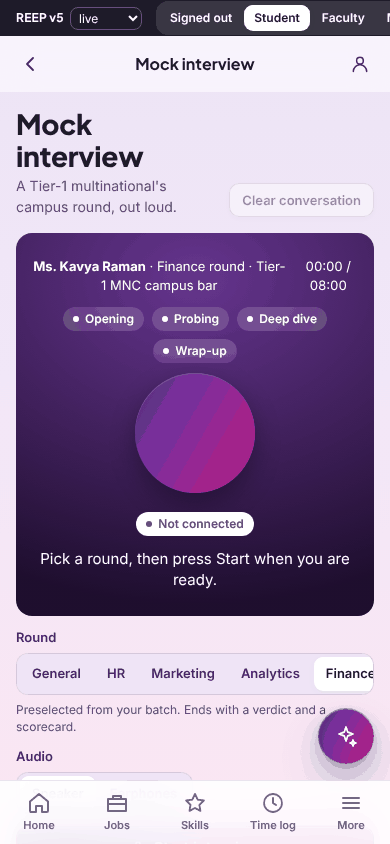
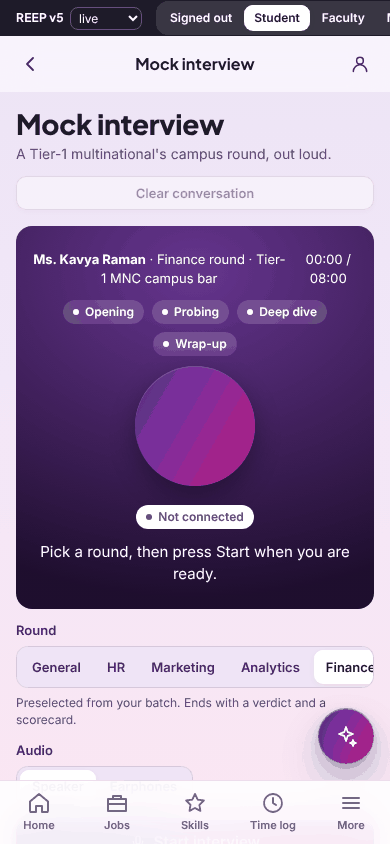
fix(prototype): phone headers keep their subtitle; the assistant button clears content
At 760px and below a page header's actions take their own row under the
title, keeping the primary action and one other in view and moving the
rest into a ⋯ sheet that presses the original controls. The assistant
button steps aside while scrolling down, content carries enough bottom
padding to clear it, and it never sits on a sticky action bar. Phone
screenshots re-shot; the inventory still carries 1054 of 1054.

Claude-Session: https://claude.ai/code/session_01JEuCjVWrUegeZps2YftbWx

diff --git a/prototype-v5/js/app.js b/prototype-v5/js/app.js
@@ -43,7 +43,14 @@ const App = {
     document.body.addEventListener('click', (ev) => this.onClick(ev));
     document.body.addEventListener('change', (ev) => this.onChange(ev));
     document.body.addEventListener('input', (ev) => this.onInput(ev));
-    window.addEventListener('scroll', () => { const tb = document.querySelector('.topbar'); if (tb) tb.classList.toggle('scrolled', scrollY > 24); }, { passive: true });
+    let lastY = 0;
+    window.addEventListener('scroll', () => {
+      const tb = document.querySelector('.topbar'); if (tb) tb.classList.toggle('scrolled', scrollY > 24);
+      // on a phone the assistant button steps aside while you scroll down, and comes back on the way up or at the end
+      const atEnd = innerHeight + scrollY >= document.documentElement.scrollHeight - 8;
+      if (Math.abs(scrollY - lastY) > 6) document.body.classList.toggle('fab-away', scrollY > lastY && scrollY > 80 && !atEnd);
+      lastY = scrollY;
+    }, { passive: true });
     this.backGesture();
     if (!location.hash) location.hash = '#/start';
     this.render(false);
@@ -86,11 +93,33 @@ const App = {
     const sticky = main && main.querySelector('.sticky-act');
     document.body.classList.toggle('has-sticky', !!sticky);
     if (sticky) requestAnimationFrame(() => document.body.style.setProperty('--sticky-h', `${sticky.offsetHeight}px`));
+    document.body.classList.remove('fab-away');
+    this.overflowActs(main);
     if (def.mount) def.mount(main, { id: parts[2], query, st: this.s(key) });
     if (push && !this.keepScroll) window.scrollTo(0, 0);
     this.keepScroll = false;
     this.cur = { key, def, id: parts[2] };
   },
+  /* Phone headers: keep the primary action and one other in view; the rest go in a ⋯ sheet
+     whose rows press the original controls, so every action keeps its own handler. */
+  overflowActs(main) {
+    if (!main || innerWidth > 760) return;
+    const acts = main.querySelector('.page-head .acts'); if (!acts) return;
+    const ctl = [...acts.children].filter((c) => c.matches('button, a.btn, label.btn'));
+    if (ctl.length <= 2) return;
+    const keep = [ctl.find((c) => c.classList.contains('primary')) || ctl[ctl.length - 1]];
+    keep.unshift(ctl.find((c) => !keep.includes(c)));
+    const extra = ctl.filter((c) => !keep.includes(c));
+    extra.forEach((c) => c.setAttribute('data-overflowed', ''));
+    const more = document.createElement('button');
+    more.type = 'button'; more.className = 'btn more-btn'; more.setAttribute('aria-label', 'More actions'); more.innerHTML = ic('more');
+    more.addEventListener('click', () => {
+      const el = Sheet.open({ title: 'More actions', body: `<div class="list">${extra.map((c, i) => `<button class="row" type="button" data-i="${i}"${c.disabled ? ' disabled style="opacity:.45"' : ''}><div class="body"><div class="ttl">${esc(c.textContent.trim() || c.getAttribute('aria-label') || '')}</div></div></button>`).join('')}</div>` });
+      el.querySelectorAll('[data-i]').forEach((b) => b.addEventListener('click', () => { const c = extra[+b.dataset.i]; Sheet.close(); setTimeout(() => (c.tagName === 'LABEL' ? c.querySelector('input')?.click() : c.click()), 330); }));
+    });
+    acts.insertBefore(more, keep[0]);
+  },
+
   rerender() { this.keepScroll = true; const y = scrollY; const f = document.activeElement; const sel = f && f.dataset && f.dataset.f ? `[data-f="${f.dataset.f}"]` : null; this.render(false); window.scrollTo(0, y); if (sel) { const n = document.querySelector(sel); if (n) { n.focus(); if (n.setSelectionRange && /^(text|search|email|tel|url|password|textarea)$/.test(n.type)) n.setSelectionRange(n.value.length, n.value.length); } } },
 
   /* Every screen's loading and error states, in one shape: skeleton rows, then a

diff --git a/prototype-v5/css/app.css b/prototype-v5/css/app.css
@@ -534,3 +534,18 @@ a.plain-link { text-decoration: none; color: inherit; } a.plain-link b { color: 
 #main [hidden], .sheet [hidden] { display: none !important; }
 .rtable td .chip { white-space: normal; height: auto; min-height: 24px; text-align: left; }
 .rtable td.r .btn.sm { white-space: nowrap; }
+
+/* phone polish: header actions get their own row; the assistant button steps aside */
+@media (max-width: 760px) {
+  .page-head { flex-direction: column; align-items: stretch; gap: var(--sp-3); }
+  .page-head .acts { margin-left: 0; flex-wrap: nowrap; min-width: 0; max-width: 100%; }
+  .page-head > .grow { min-width: 0; max-width: 100%; }
+  .page-head .acts > .btn, .page-head .acts > a.btn, .page-head .acts > label.btn { flex: 1 1 0; min-width: 0; padding: 0 12px; }
+  .page-head .acts > .btn span:not(.sr):not(.chip), .page-head .acts > .btn { overflow: hidden; text-overflow: ellipsis; }
+  .page-head .acts > .more-btn { flex: 0 0 var(--tap); padding: 0; }
+  .page-head .acts [data-overflowed] { display: none !important; }
+  .fab { transition: transform .25s var(--ease-out), opacity .2s; }
+  body.fab-away .fab { transform: translateY(140%); opacity: 0; pointer-events: none; }
+  .content { padding-bottom: calc(var(--tabbar-h) + var(--safe-b) + 112px); }
+  body.has-sticky .content { padding-bottom: calc(var(--tabbar-h) + var(--safe-b) + 40px); }
+}
